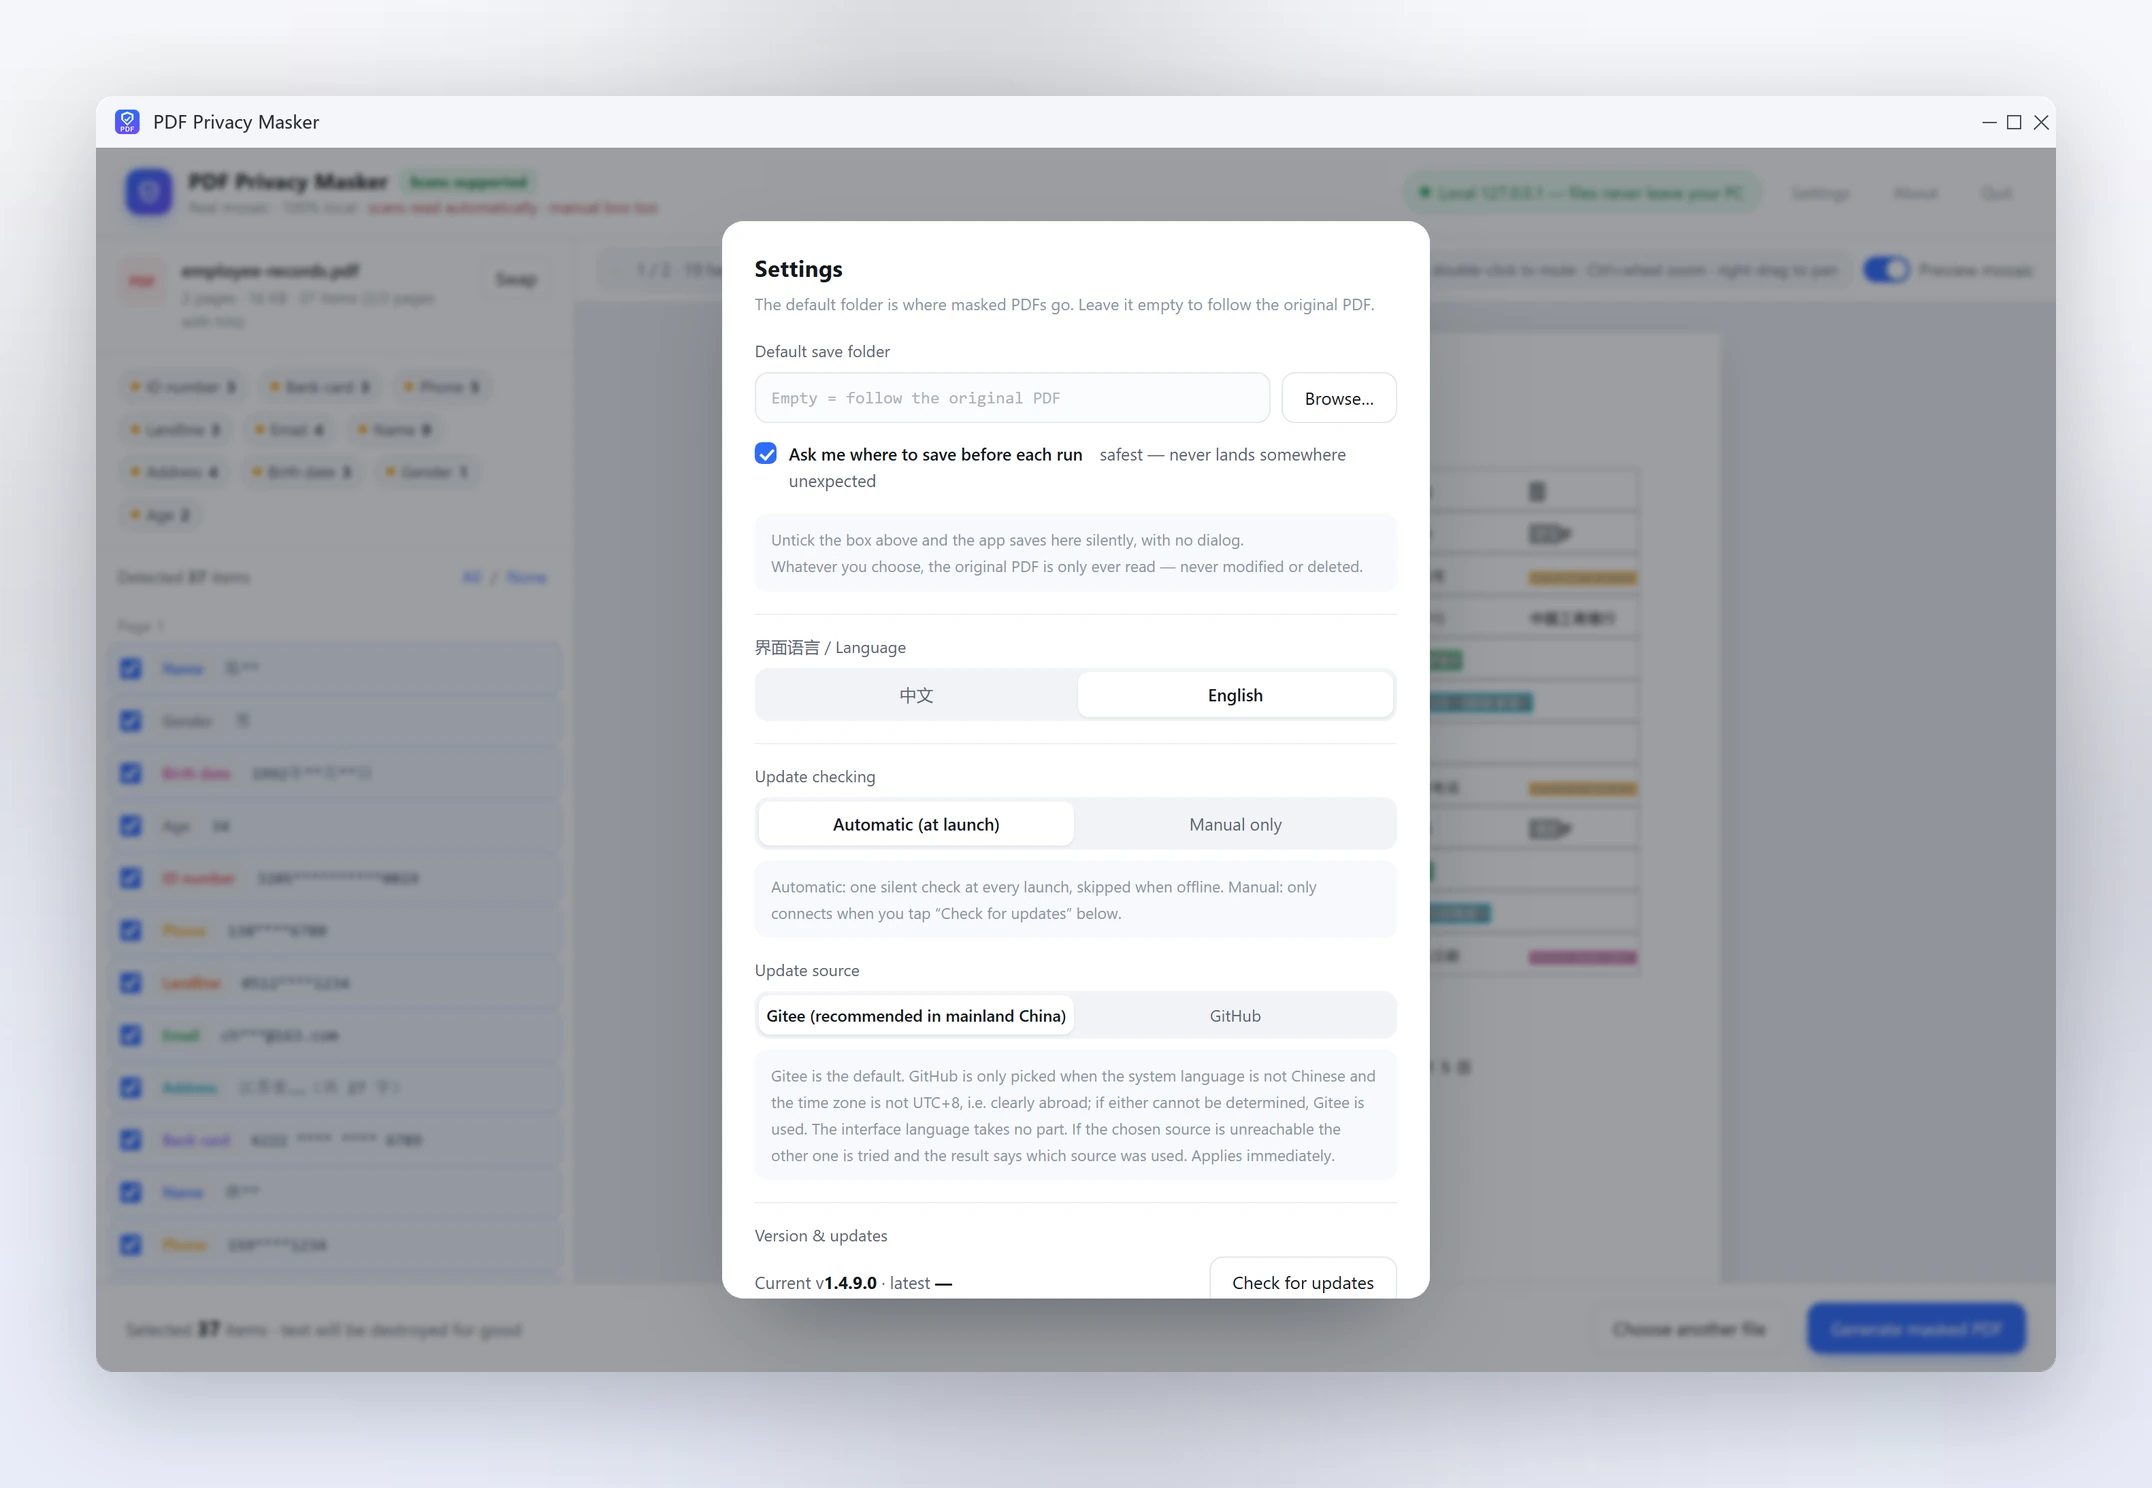
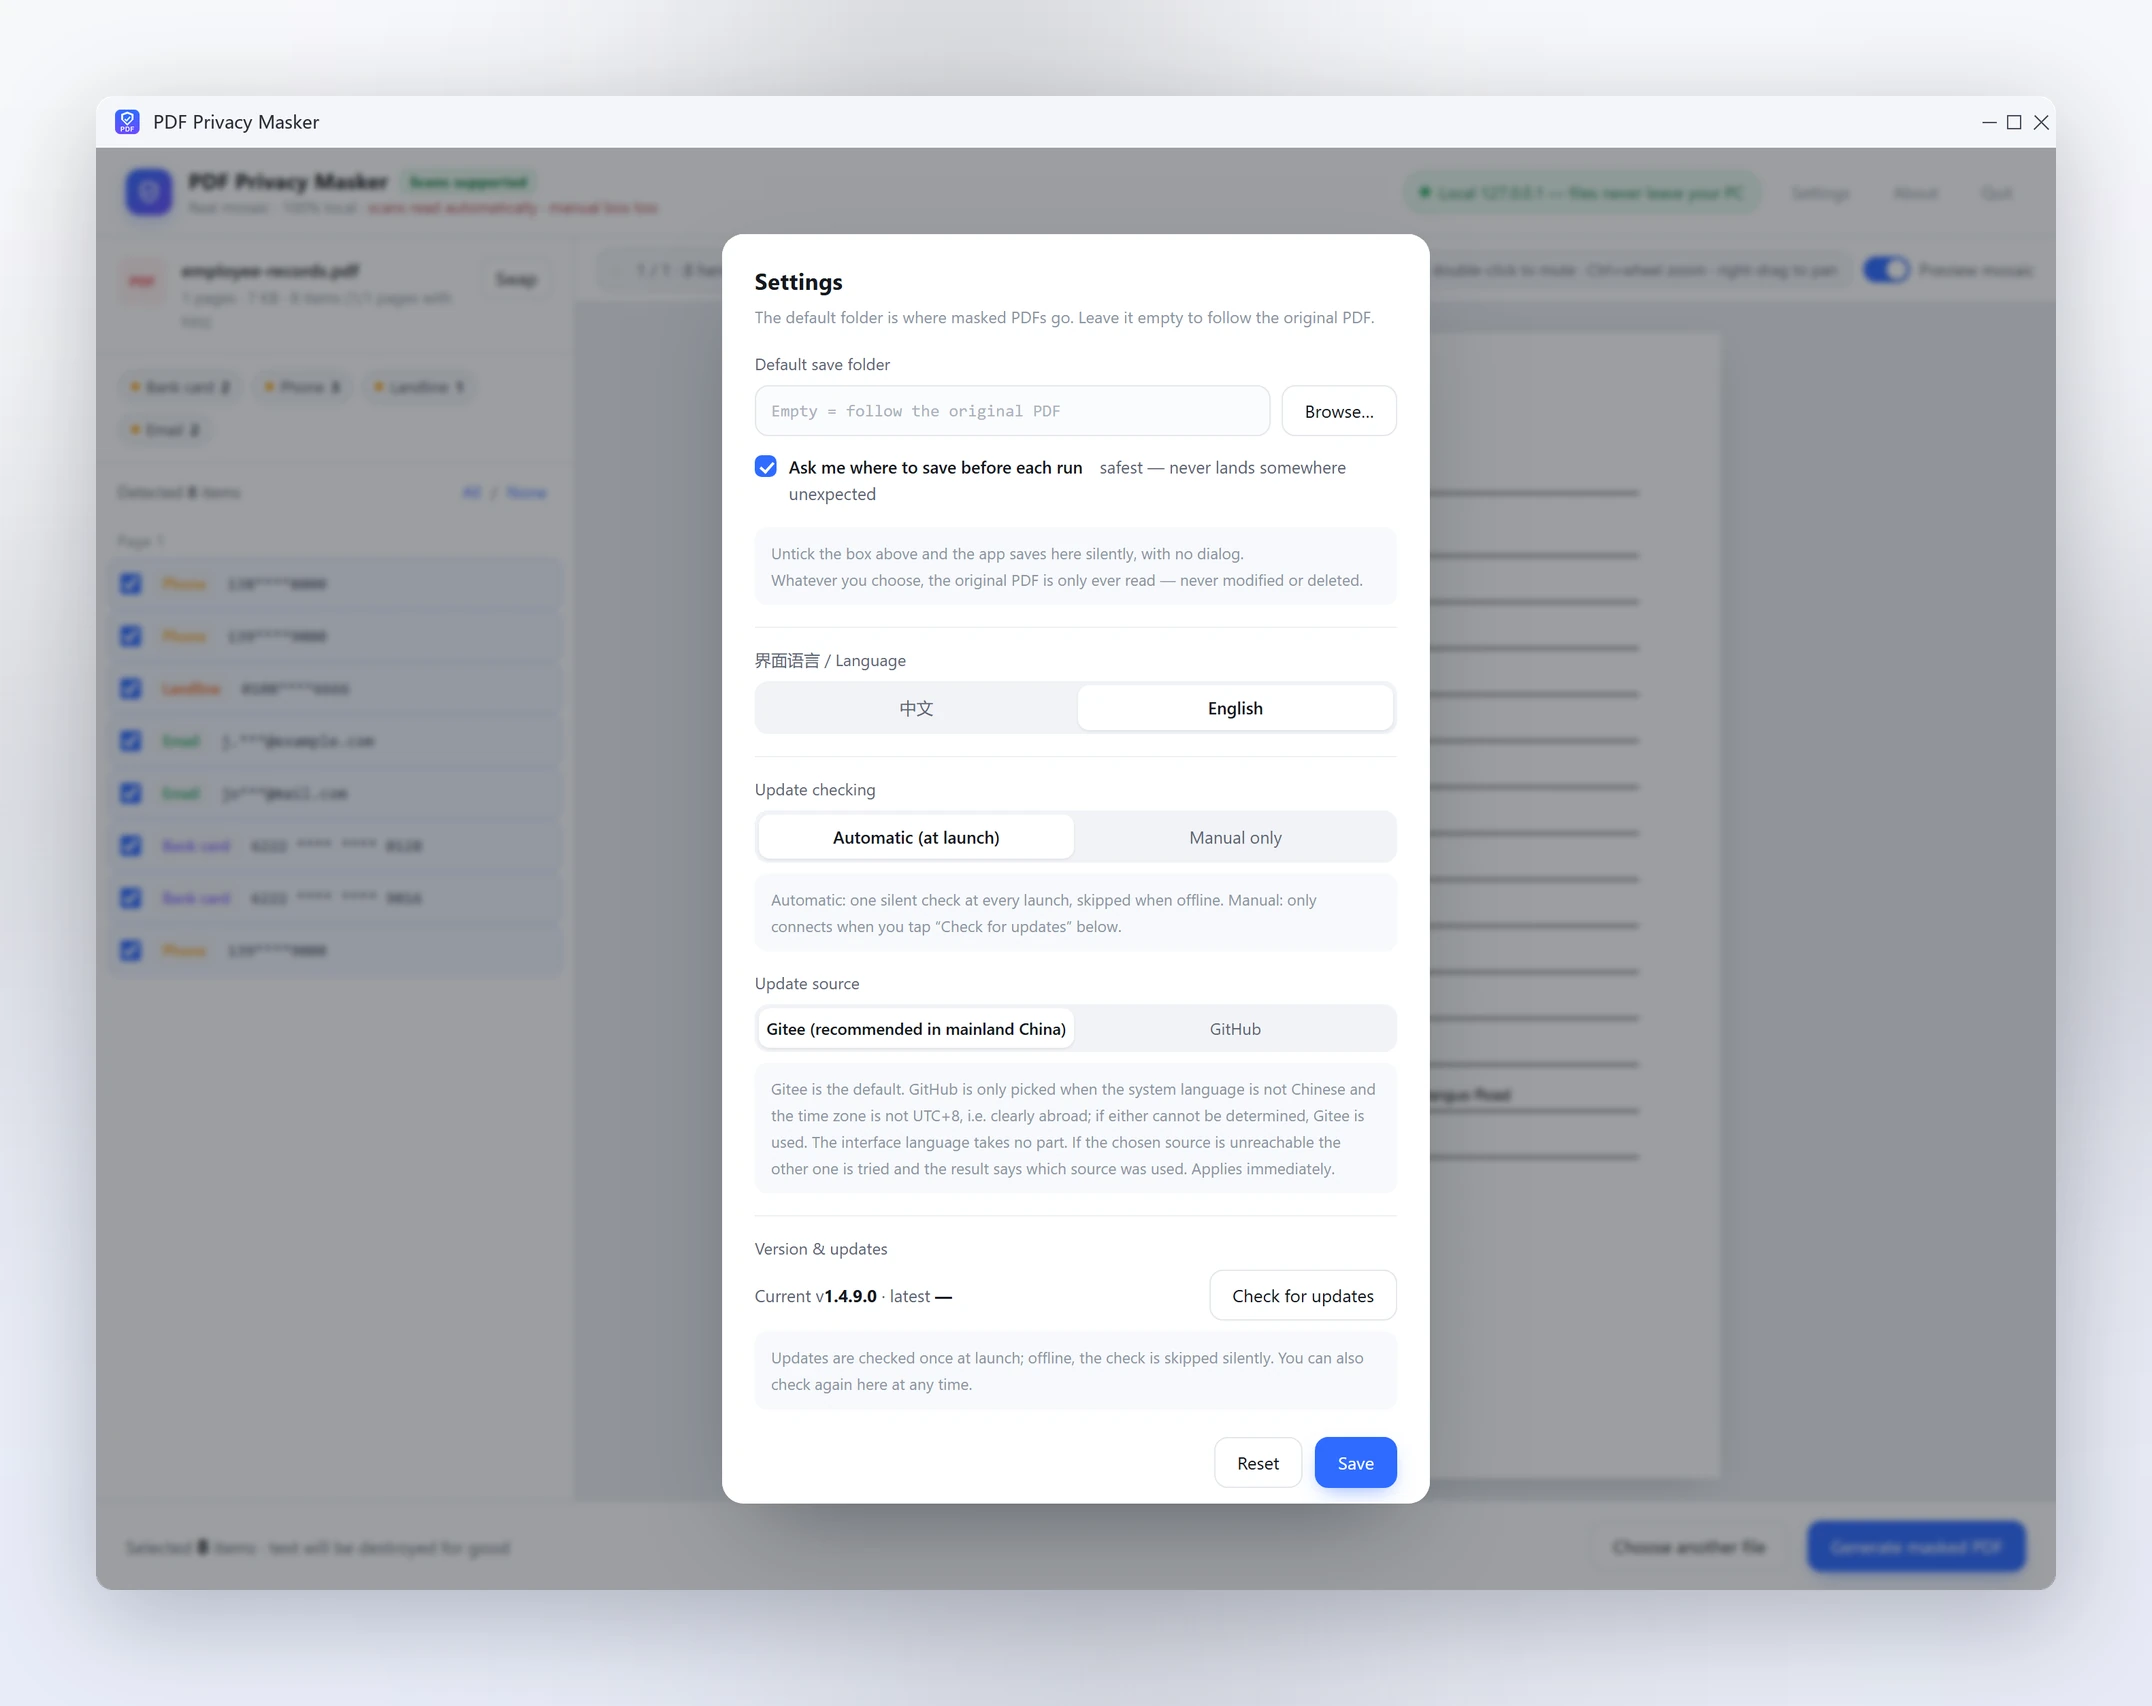
docs(readme): 英文版所有界面图换成真·英文内容
- Windows 端截图：英文文档（en_sample.pdf）走真实检测，左侧列表与右侧预览都是英文
- 安卓端截图：UiShotTest 新增英文示例页与识别结果（demoPageEn / demoFindingsEn），
  14-home-english、15-work-english 改用英文数据，手机屏里不再是中文表单
- 重出 hero / win-work / win-settings / phone-feature / lang 的中英明暗共 20 张
- 顺带：截图脚本的内存不足导致 Robolectric 测试进程崩溃，先 gradle --stop 再跑即可

diff --git a/android/app/src/test/java/com/neurotracee/pdfmask/UiShotTest.kt b/android/app/src/test/java/com/neurotracee/pdfmask/UiShotTest.kt
@@ -66,6 +66,35 @@ class UiShotTest {
 
     // ---------- 假数据 ----------
 
+    /** 英文截图用同一套版式的英文表单，避免英文 README 里手机屏还是中文 */
+    private fun demoPageEn(index: Int = 0): PageText {
+        val texts = listOf(
+            "EMPLOYEE INFORMATION FORM",
+            "Full name: Jonathan Reyes",
+            "Job title: Senior Analyst",
+            "Phone: 13800138000",
+            "Mobile: +86 139 0013 9000",
+            "Email: j.reyes@example.com",
+            "Backup email: jonathan.reyes@mail.com",
+            "Bank card: 6222 0212 3456 7890",
+            "Address: Room 1203, Building 5, 88 Jianguo Road"
+        )
+        var y = 90f
+        val lines = texts.map { t ->
+            val cs = ArrayList<CharBox?>()
+            var x = 56f
+            for (ch in t) {
+                val w = if (ch.code < 128) 6.2f else 13.0f
+                cs.add(CharBox(ch, Rect(x, y - 11f, x + w, y + 3f)))
+                x += w
+            }
+            val line = Line(t, cs)
+            y += 26f
+            line
+        }
+        return PageText(index, 595f, 842f, lines)
+    }
+
     private fun demoPage(index: Int = 0): PageText {
         val texts = listOf(
             "员工信息登记表",
@@ -107,6 +136,24 @@ class UiShotTest {
         return r
     }
 
+    private fun demoFindingsEn(): List<Finding> {
+        val pg = demoPageEn()
+        val raw = listOf(
+            Triple(Kind.NAME, 1, "Jonathan Reyes"),
+            Triple(Kind.PHONE, 3, "13800138000"),
+            Triple(Kind.PHONE, 4, "139 0013 9000"),
+            Triple(Kind.EMAIL, 5, "j.reyes@example.com"),
+            Triple(Kind.EMAIL, 6, "jonathan.reyes@mail.com"),
+            Triple(Kind.BANKCARD, 7, "6222 0212 3456 7890")
+        )
+        val auto = raw.mapIndexedNotNull { i, (k, li, t) ->
+            val r = boxOf(pg, li, t) ?: return@mapIndexedNotNull null
+            Finding(0, k, t, r, note = "", suspect = i == 0, id = i)
+        }
+        val manual1 = Finding(0, Kind.MANUAL, "", Rect(56f, 88f, 300f, 112f), note = "Manual box", id = -1)
+        return auto + manual1
+    }
+
     private fun demoFindings(): List<Finding> {
         val pg = demoPage()
         val raw = listOf(
@@ -131,7 +178,7 @@ class UiShotTest {
         return auto + manual1 + manual2
     }
 
-    private fun demoThumb(): Bitmap {
+    private fun demoThumb(en: Boolean = false): Bitmap {
         val w = 900
         val h = 1273
         val bmp = Bitmap.createBitmap(w, h, Bitmap.Config.ARGB_8888)
@@ -171,21 +218,21 @@ class UiShotTest {
             textSize = 15f
             isAntiAlias = true
         }
-        for (line in demoPage().lines) {
+        for (line in (if (en) demoPageEn() else demoPage()).lines) {
             val first = line.chars.firstOrNull { it?.rect != null }?.rect ?: continue
             c.drawText(line.text, first.x0, first.y1 - 3f, p)
         }
         return bmp
     }
 
-    private fun seedVm(): AppViewModel {
+    private fun seedVm(en: Boolean = false): AppViewModel {
         val app = ApplicationProvider.getApplicationContext<android.app.Application>()
         val vm = AppViewModel(app)
-        val fs = demoFindings()
-        val thumb = demoThumb()
+        val fs = if (en) demoFindingsEn() else demoFindings()
+        val thumb = demoThumb(en)
         vm.seedForPreview(
-            name = "员工信息登记表.pdf",
-            pageTexts = listOf(demoPage(0), demoPage(1)),
+            name = if (en) "employee-records.pdf" else "员工信息登记表.pdf",
+            pageTexts = if (en) listOf(demoPageEn(0), demoPageEn(1)) else listOf(demoPage(0), demoPage(1)),
             found = fs,
             sel = fs.filter { !it.suspect }.map { it.id }.toSet(),
             thumbBitmaps = mapOf(0 to thumb, 1 to thumb)
@@ -233,9 +280,10 @@ class UiShotTest {
         dark: Boolean = false,
         listOpen: Boolean = false,
         testDragAt: androidx.compose.ui.geometry.Offset? = null,
-        draft: DraftStore.Meta? = null
+        draft: DraftStore.Meta? = null,
+        en: Boolean = false
     ) {
-        val vm = seedVm()
+        val vm = seedVm(en)
         render(name, dark) {
             Scaffold(
                 containerColor = MaterialTheme.colorScheme.background,
@@ -453,7 +501,7 @@ class UiShotTest {
         )
         com.neurotracee.pdfmask.AppPrefs.updateLang("en")
         try {
-            shootApp("14-home-english", false, false, noFold)
+            shootApp("14-home-english", false, false, noFold, en = true)
         } finally {
             com.neurotracee.pdfmask.AppPrefs.updateLang("zh")
         }
@@ -468,7 +516,7 @@ class UiShotTest {
         )
         com.neurotracee.pdfmask.AppPrefs.updateLang("en")
         try {
-            shootApp("15-work-english", true, false, noFold)
+            shootApp("15-work-english", true, false, noFold, en = true)
         } finally {
             com.neurotracee.pdfmask.AppPrefs.updateLang("zh")
         }

diff --git a/dev/make_readme_shots.py b/dev/make_readme_shots.py
@@ -55,6 +55,8 @@ EDGE = [
 ]
 
 SAMPLE_PDF = os.path.join(ROOT, "test", "测试文档_含隐私.pdf")
+# 英文版截图用英文文档，否则英文 README 里那张「主界面」的正文还是中文
+EN_SAMPLE = os.path.join(ROOT, "dev", "fixtures", "en_sample.pdf")
 
 # 视觉基调：仿 DSH Go 那种「极浅冷紫 → 极浅暖白」的斜向渐变
 BG_TOP = (245, 246, 251)
@@ -131,7 +133,8 @@ def _doc_payload(lang):
     import pdfengine
     import pdfmask
 
-    doc = pdfengine.open_doc(SAMPLE_PDF)
+    src = SAMPLE_PDF if lang == "zh" else EN_SAMPLE
+    doc = pdfengine.open_doc(src)
     findings = pdfmask.detect(doc, use_ocr=False)
     pages = []
     for i in range(len(doc)):
@@ -150,7 +153,7 @@ def _doc_payload(lang):
                       "note": f.get("note") or "", "suspect": False})
         stats[label] = stats.get(label, 0) + 1
     name = "员工信息登记表.pdf" if lang == "zh" else "employee-records.pdf"
-    docj = {"docId": "t1", "name": name, "size": os.path.getsize(SAMPLE_PDF),
+    docj = {"docId": "t1", "name": name, "size": os.path.getsize(src),
             "pages": pages, "findings": items, "scanned": [],
             "outDir": "D:\\\\HugoMoveData\\\\User\\\\YB\\\\Downloads",
             "stats": stats}
